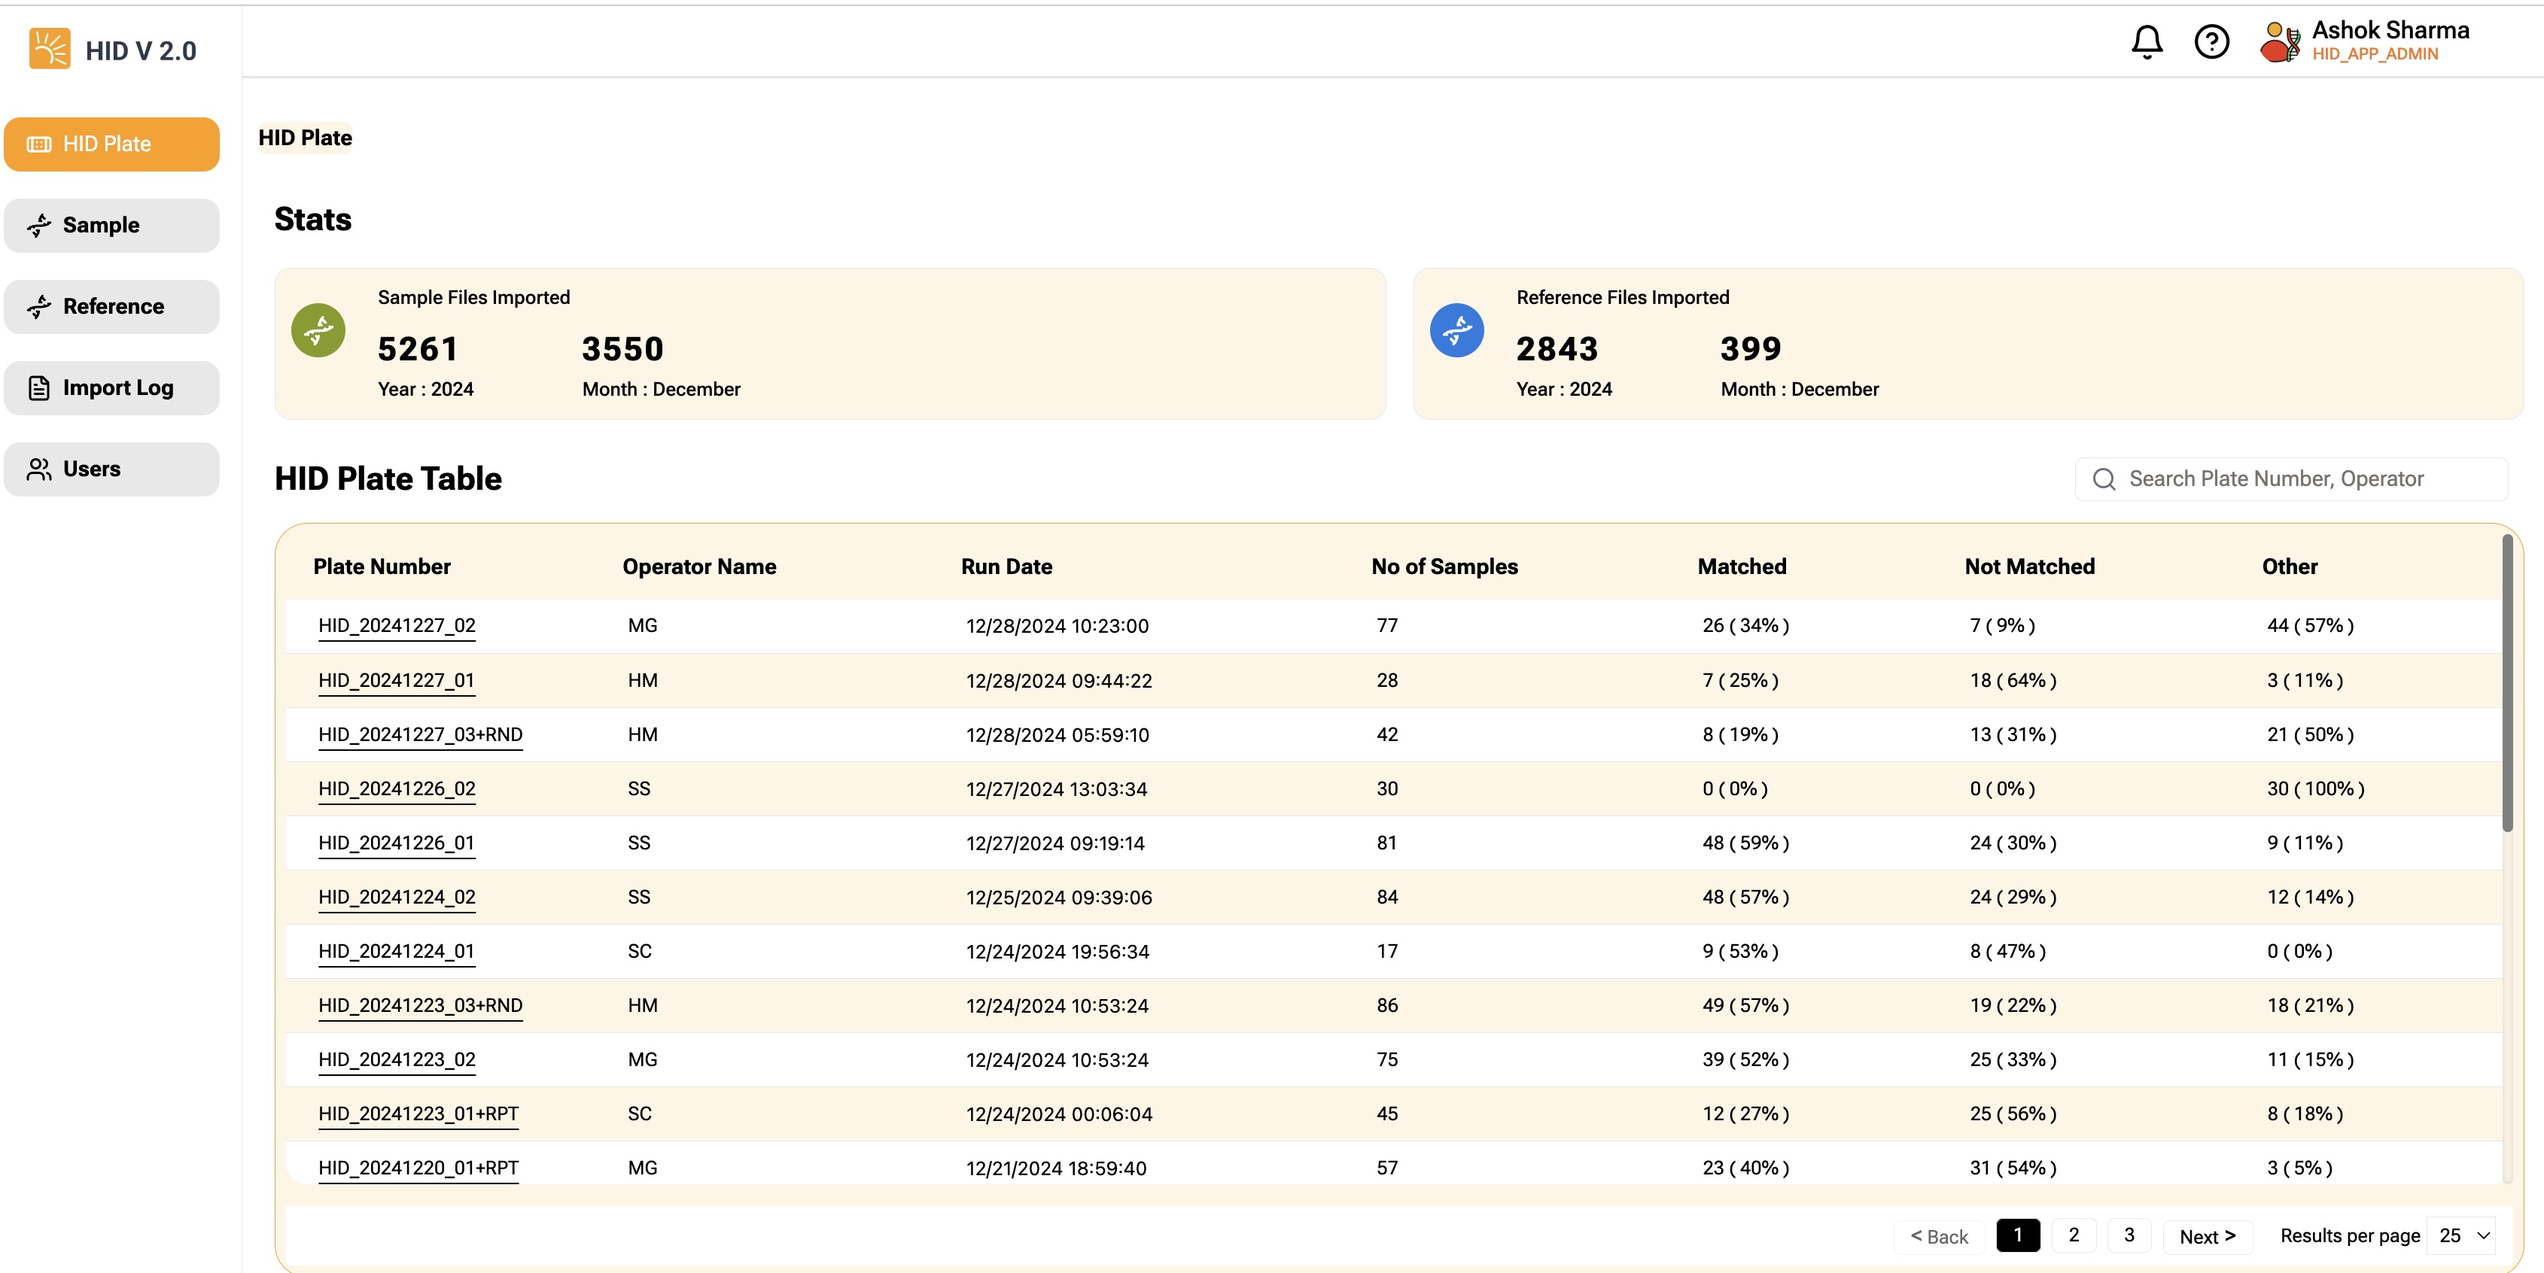
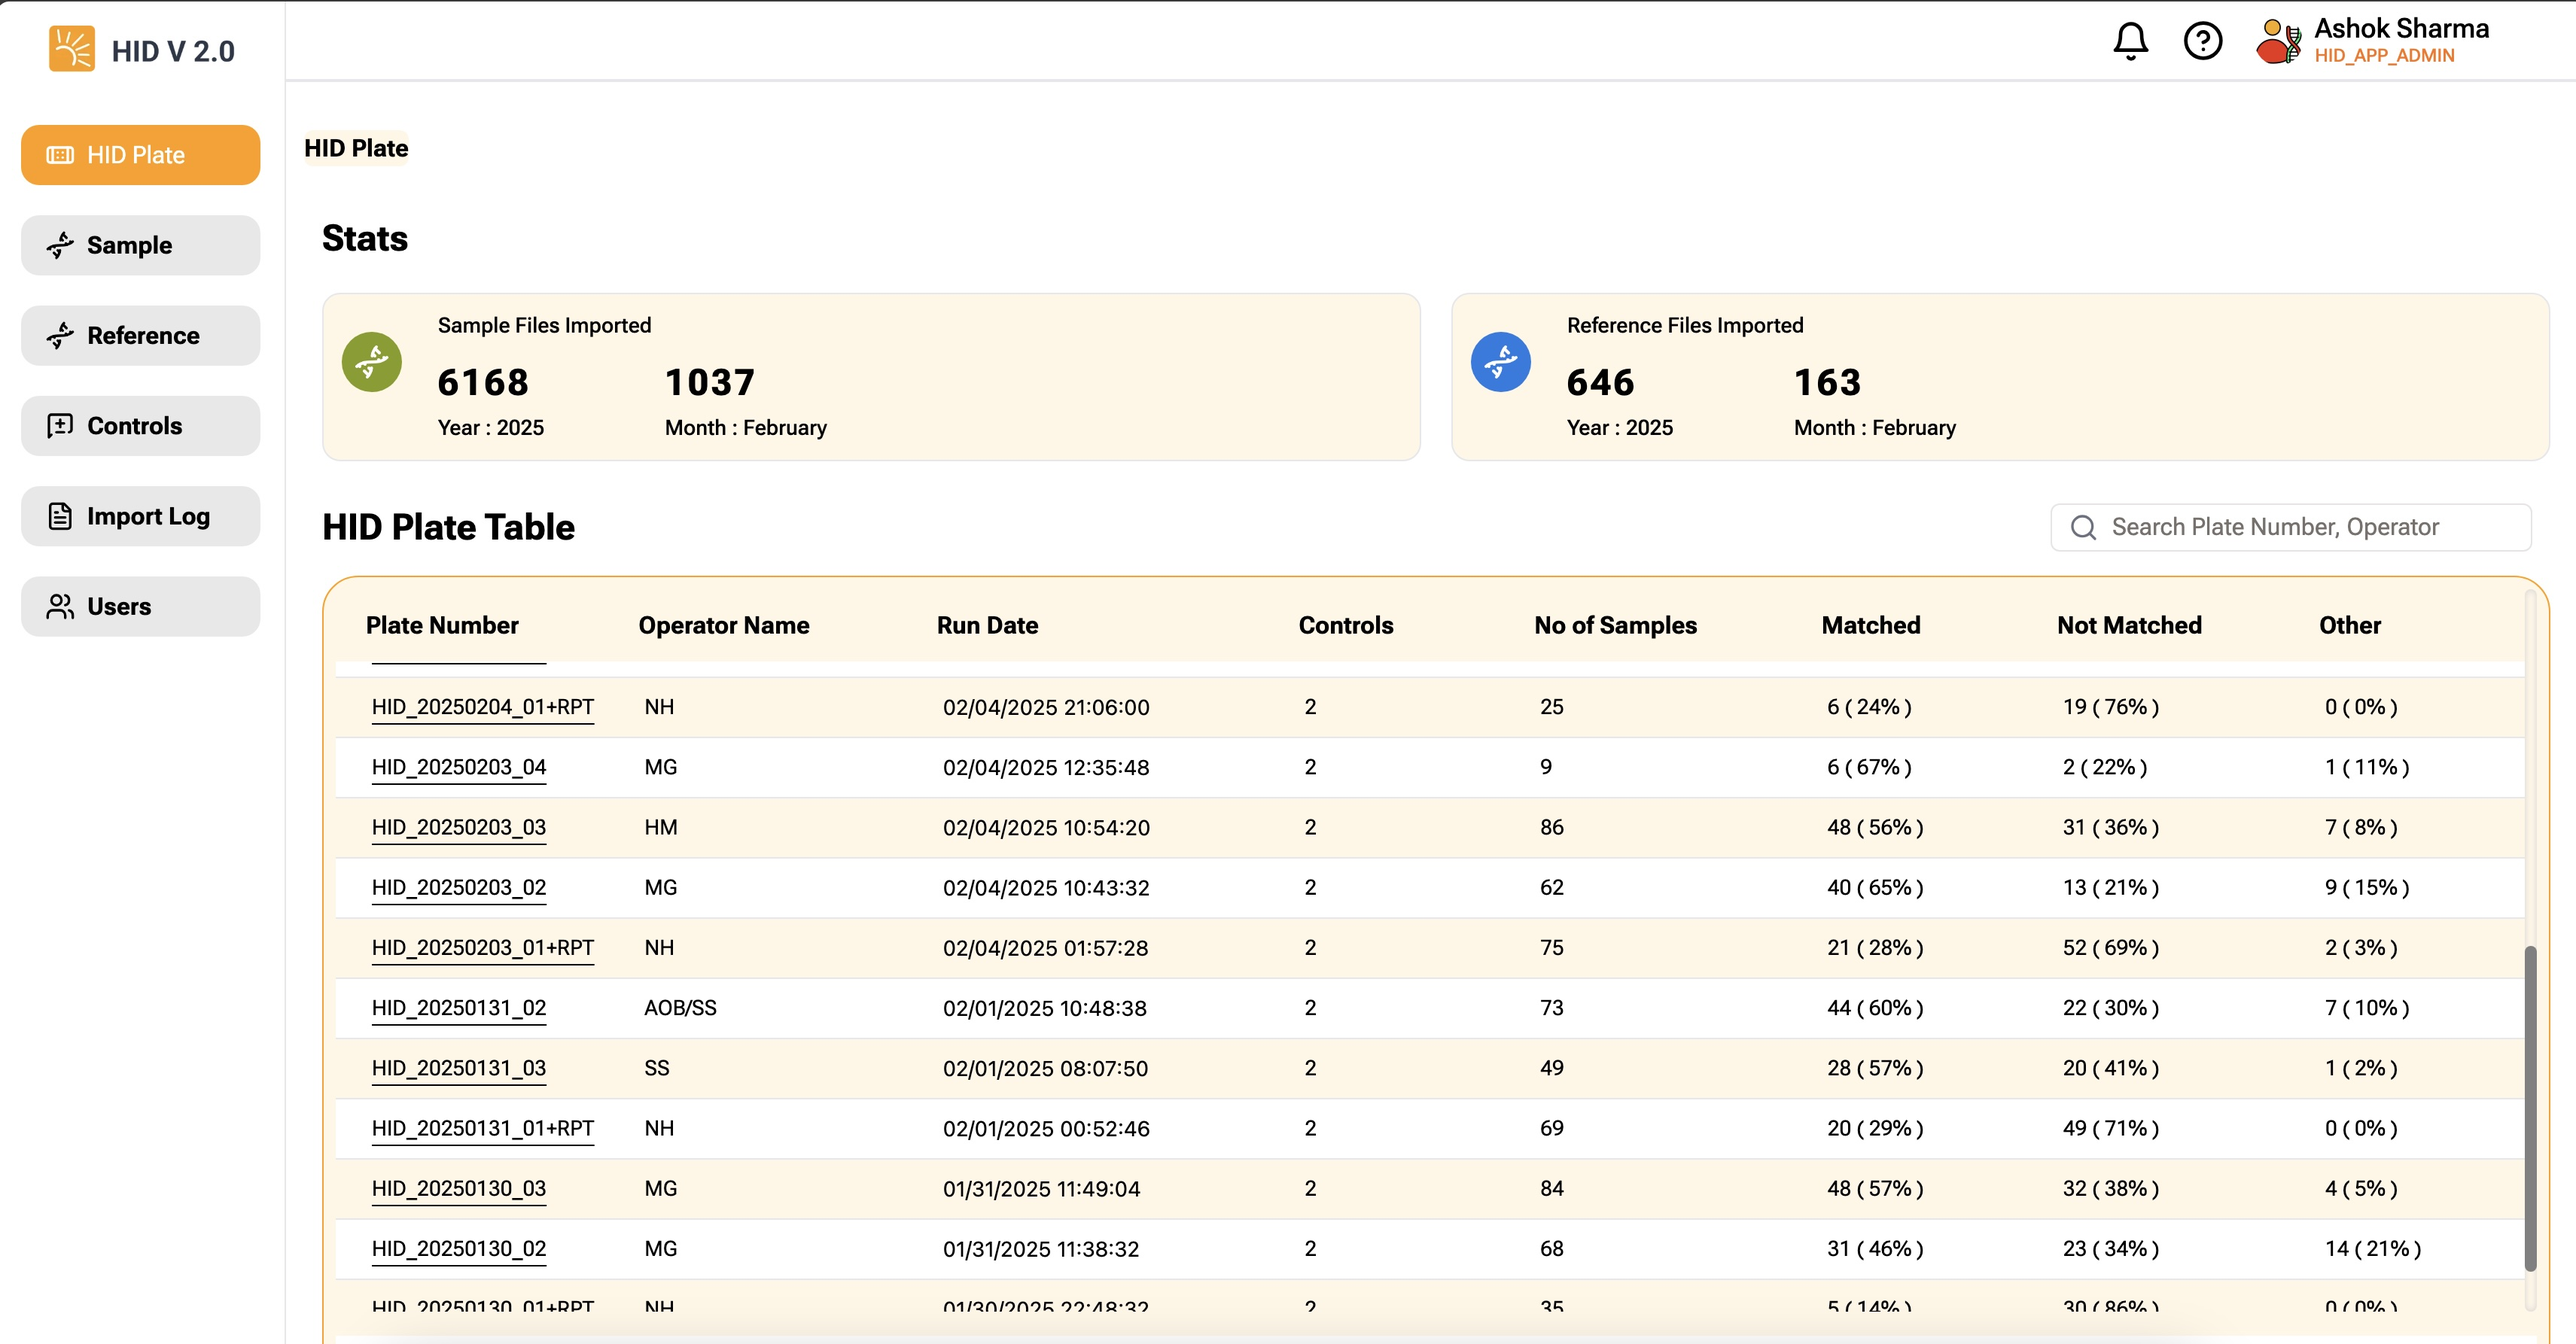
added controls to HID plate summary and FAQ

diff --git a/docs/HID-app/99-FAQ.md b/docs/HID-app/99-FAQ.md
@@ -43,3 +43,15 @@ you can also check by logging in to SQL1 server and then go to
 1. /Users/Public/Automation_File_Backup folder and  
 2. search for the file using reference number.  
 </details>
+
+<details>
+<summary>**Reference with bad data got assigned to Sample. How do I reassign new reference to sample?**</summary>
+
+In order to reassign new reference to the sample, do following.  
+1. Select "Reference" from the left navigation bar and search the reference with bad data.
+2. Once located, click "Invalidate" under Actions and invalidate the reference. This will unlink this reference from all the Samples and reset the score and status.
+
+Now go back to Sample and search the sample then, 
+1. Click "Add Reference", find and select the reference.
+ 
+</details>

diff --git a/docs/HID-app/02-HID Plate Summary.md b/docs/HID-app/02-HID Plate Summary.md
@@ -10,6 +10,7 @@ Displays Sample summary by HID Plate, Operator along with number of samples. Pag
 | :------ | :-----------------------------------------------------------------------------------------------|
 | **Plate Number** | Plate name, data comes from the GeXP data feed.|
 | **Operator**  | Operator Initial, data comes from the GeXP data feed.|
+| **Controls** | Shows number of control files within HID Plate. |
 | **No. of Samples** | Total number of samples within HID Plate.|
 | **Matched** | Count of samples, where scoring calculation is done and the result is greater than 70%.|
 | **Not Matched** | Count of samples, where scoring calculation is done and the result is less than 70%.|
